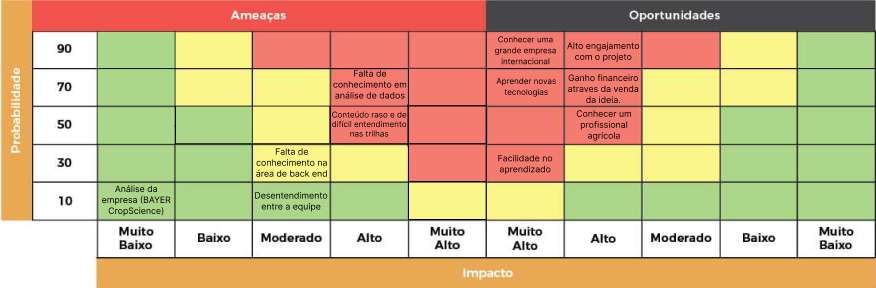
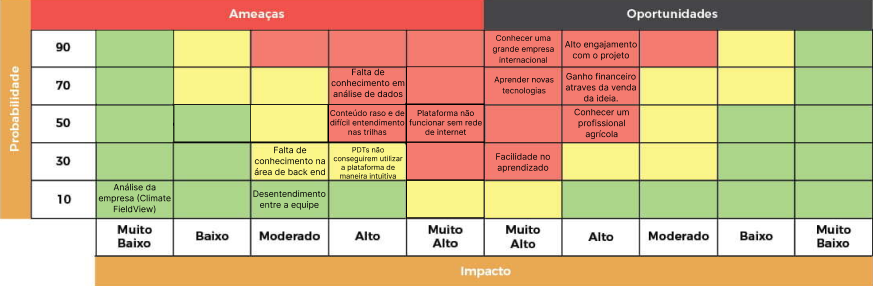
Seção 2.1.5 corrigido conforme as instruções a review do gabriel

Changed region(s): [[0.0, 0.0, 1.0, 1.0], [0.6804, 0.8112, 0.7113, 0.8671]]

diff --git a/documentos/wad.md b/documentos/wad.md
@@ -93,15 +93,16 @@ Fonte: Próprios Autores (2025)
 
 &emsp;&emsp;&emsp;&emsp;Para explicar os termos colocados na imagem acima, faremos uma tabela de ameaça e de oportunidade descrevendo cada tópico, com a categoria que ela se encontra, a probabilidade de acontecer e o impacto que esse risco pode ocasionar no projeto.
 
-# 1. Ameaças
+| Risco                                                   | Categoria                          | Descrição                                                                                                                                     | Probabilidade | Impacto     |
+|----------------------------------------------------------|------------------------------------|-----------------------------------------------------------------------------------------------------------------------------------------------|---------------|-------------|
+| Falta de conhecimento em análise de dados               | Pessoas (falta de conhecimento)    | A equipe não possui muita experiência nessa área, podendo atrasar prazos ou até analisar errado os dados.                                   | 90            | Alto        |
+| Conteúdo raso e de difícil entendimento nas trilhas     | Produto                            | A falta de uma implementação dos conteúdos nas trilhas de uma forma clara e intuitiva pode dificultar a função do site: aprendizado rápido. | 50            | Moderado    |
+| Plataforma não funcionar sem rede de internet           | Técnico / Infraestrutura           | A dependência de conexão com a internet pode inviabilizar o uso da solução em regiões remotas ou com sinal instável.                        | 50            | Muito Alto  |
+| PDTs não conseguirem utilizar a plataforma de maneira intuitiva | Produto / Usabilidade             | A complexidade da interface ou navegação pode impedir que os PDTs usem a plataforma corretamente, afetando a experiência e resultados.       | 30            | Alto        |
+| Falta de conhecimento na área de back end               | Pessoas (falta de conhecimento)    | Habilidades limitadas em back end podem atrasar a construção de funcionalidades críticas e a progressão do trabalho.                        | 30            | Moderado    |
+| Análise da empresa (Bayer CropScience)                  | Pesquisa                           | Análise bem feita do parceiro sem nenhum impeditivo ou dificuldade.                                                                         | 10            | Muito Baixo |
+| Desentendimento entre a equipe                          | Relacionamento / Relação           | Conflitos interpessoais podem gerar impacto na produtividade e na continuidade do projeto.                                                   | 10            | Baixo       |
 
-| Risco                                                   | Categoria                     | Descrição                                                                                      | Probabilidade | Impacto    |
-|----------------------------------------------------------|-------------------------------|--------------------------------------------------------------------------------------------------|---------------|------------|
-| Falta de conhecimento em análise de dados               | Pessoas (falta de conhecimento) | A equipe não possui muita experiência nessa área, podendo atrasar prazos ou até analisar errado os dados.      | 90            | Alto       |
-| Conteúdo raso e de difícil entendimento nas trilhas     | Produto            | A falta de uma implementação dos conteúdos nas trilhas de uma forma clara e intuitiva podem dificultar a função do site, no caso é o aprendizado fácil e rápido.          | 50            | Moderado   |
-| Falta de conhecimento na área de back end               | Pessoas (falta de conhecimento) | Habilidades limitadas em back end podem atrasar a construção de funcionalidades críticas e a progressão do  trabalho.      | 30            | Moderado   |
-| Análise da empresa (Bayer CropScience)                  | Pesquisa           | Análise bem feita do parceiro sem nenhum impeditivo ou dificuldade.   | 10            | Muito Baixo|
-| Desentendimento entre a equipe                          | Relacionamento / Relação        | Conflitos interpessoais podem gerar impacto na produtividade e na continuidade do projeto.      | 10            | Baixo      |
 
 # 2. Oportunidades
 